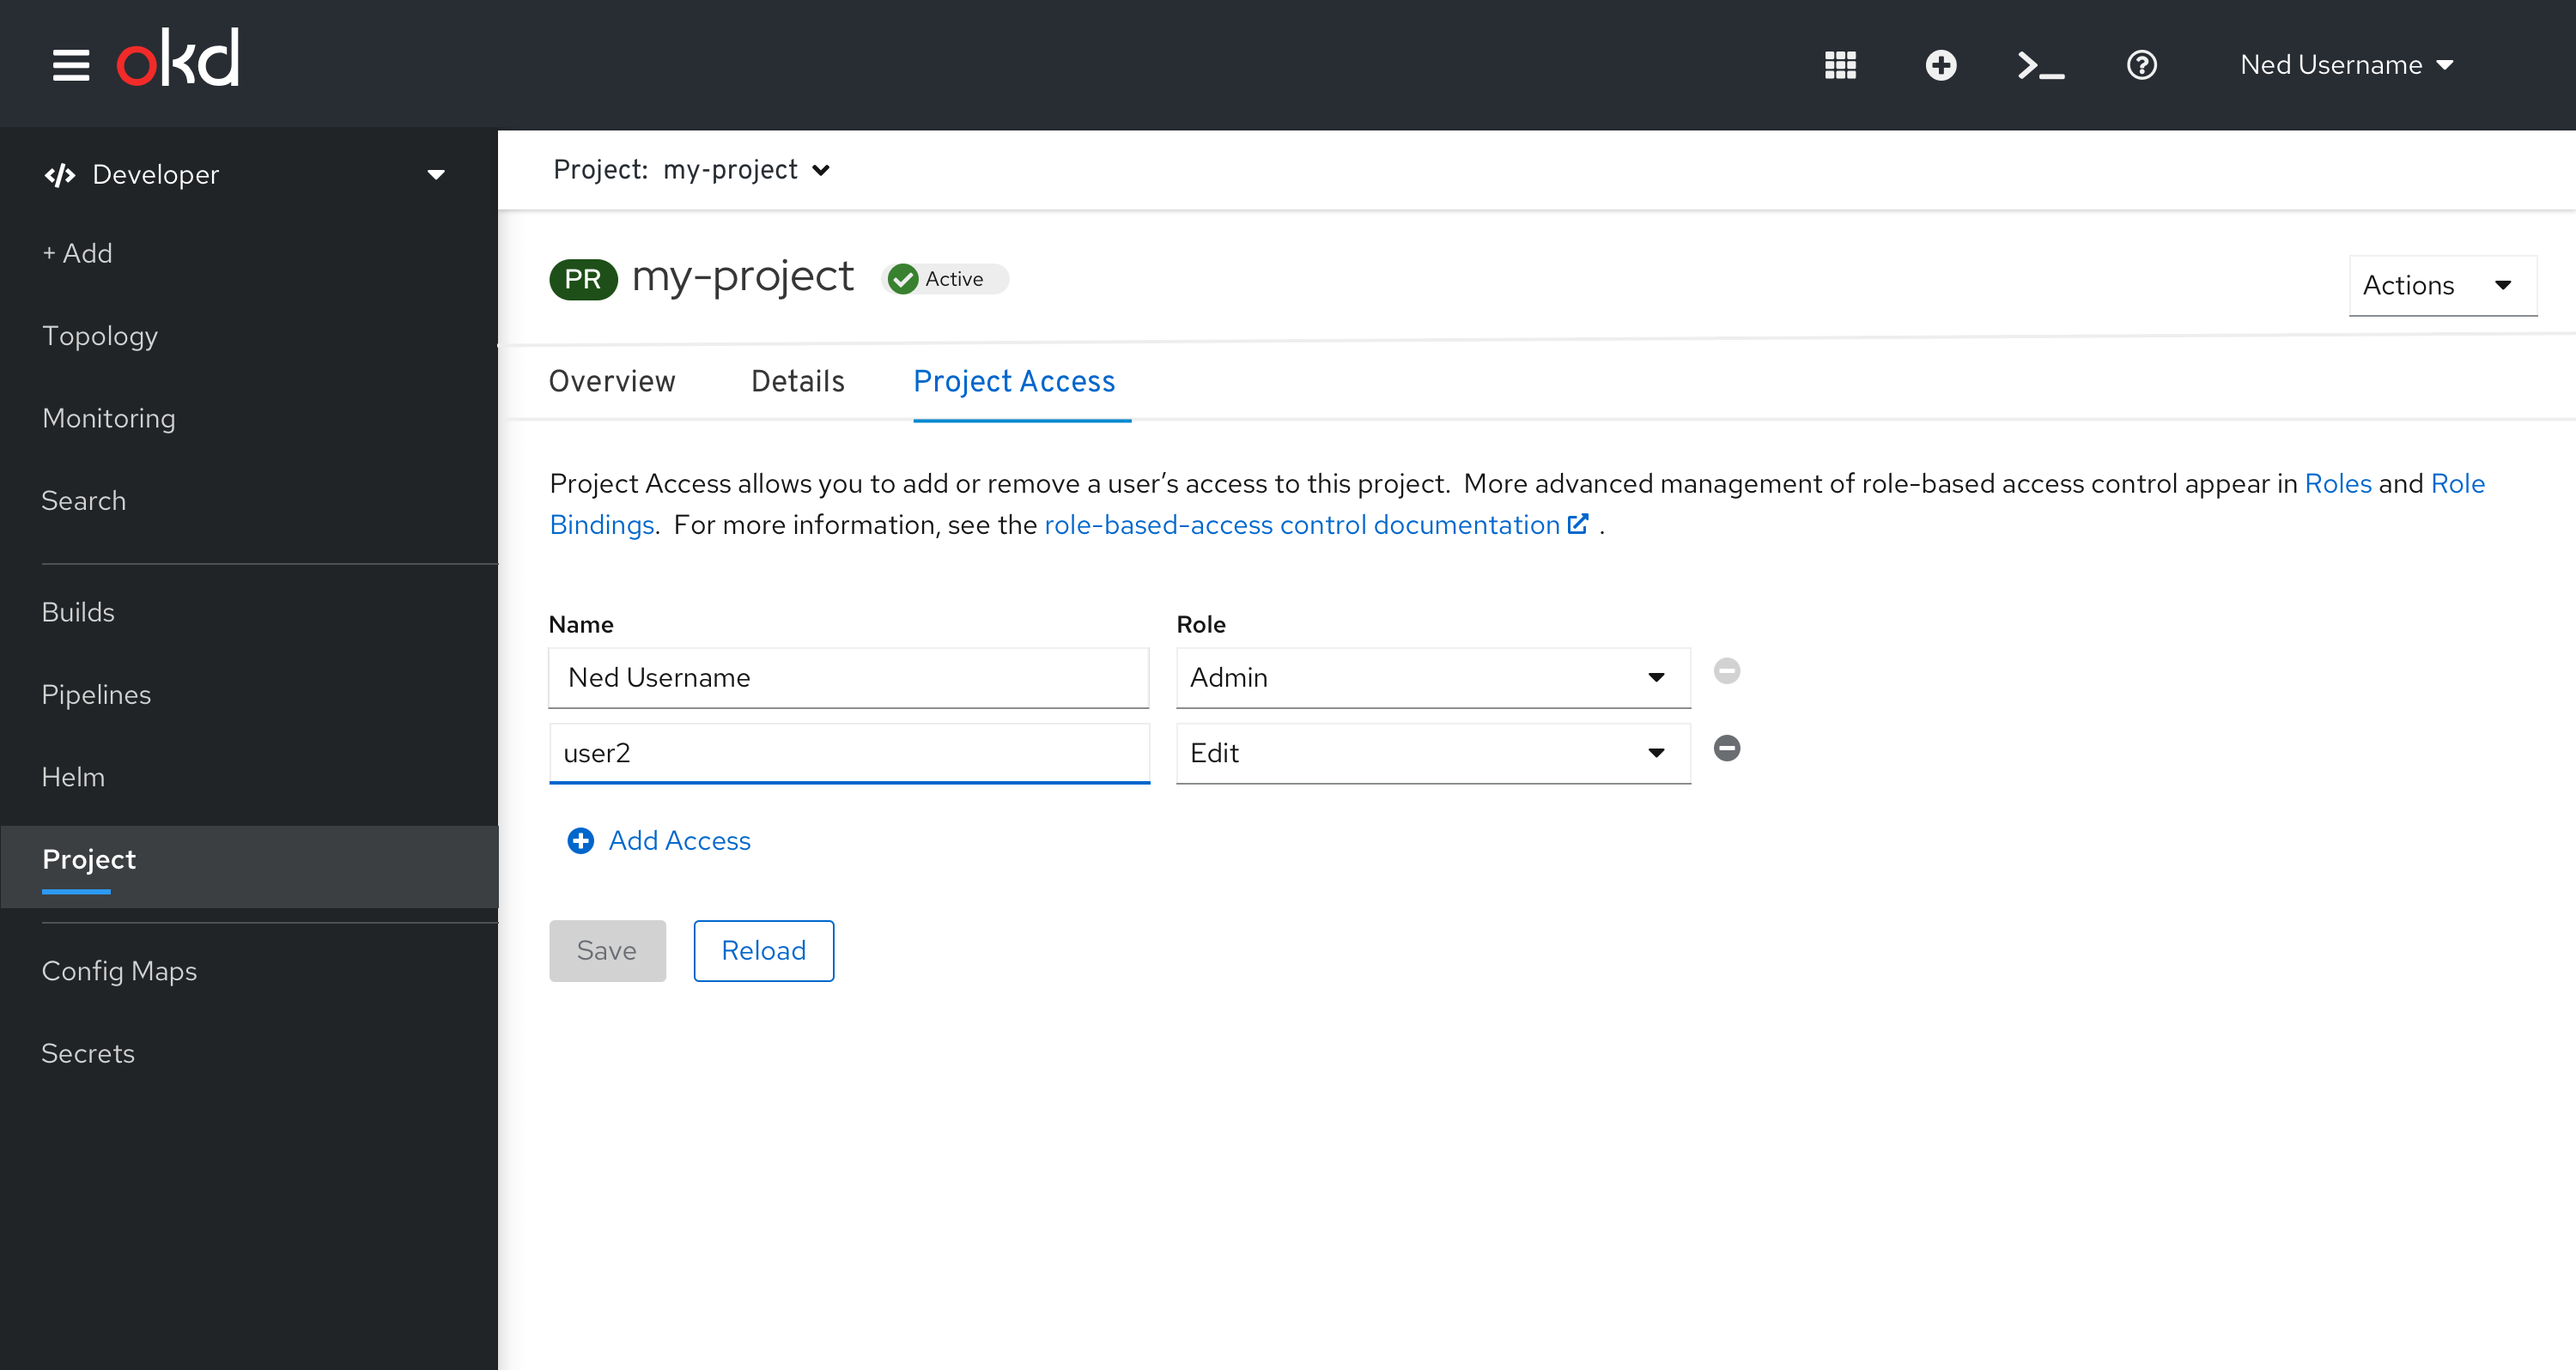
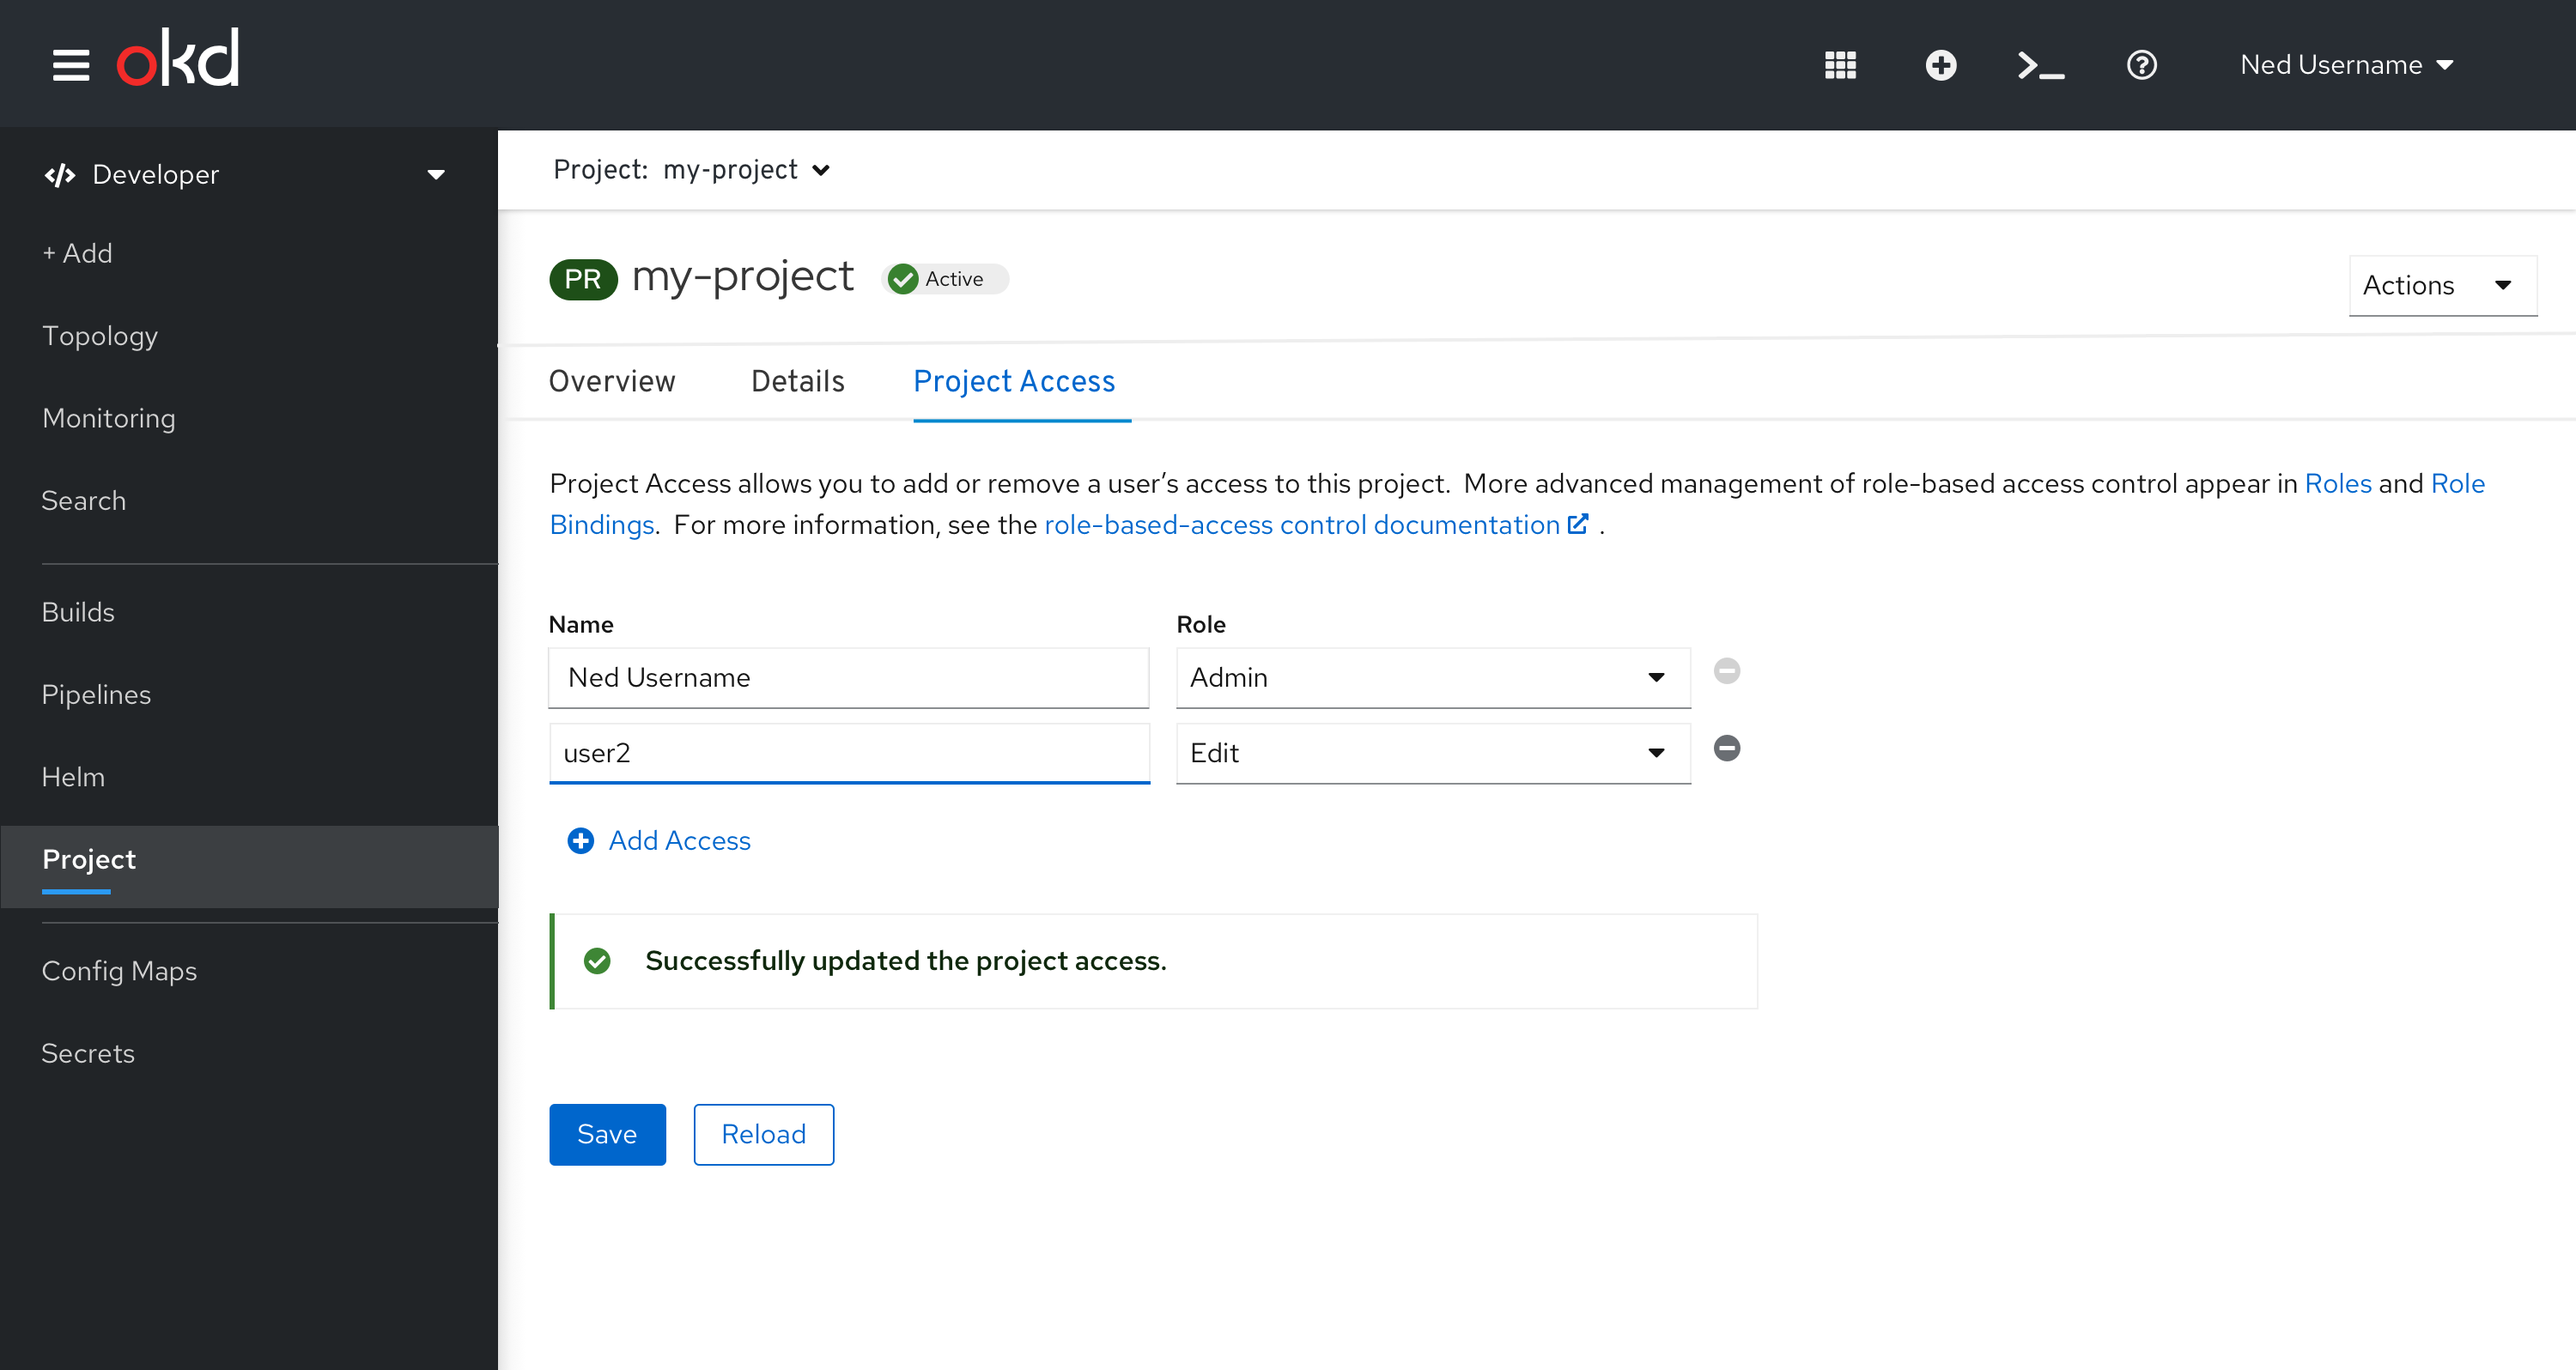
update happy inline alerts

Changed region(s): [[0.186, 0.6447, 0.434, 0.7368], [0.217, 0.7982, 0.31, 0.8596]]

diff --git a/designs/developer/project-45/index.md b/designs/developer/project-45/index.md
@@ -58,5 +58,5 @@ Figure 5 - Remove Access tooltip
 Figure 6 - Access removed, before being saved
 
 * Once the user Saves the changes, the inline alert is removed and the Save button is disabled.
-![Figure 7](img/project-1.png)
+![Figure 7](img/project-7.png)
 Figure 7 - Access removed and saved
